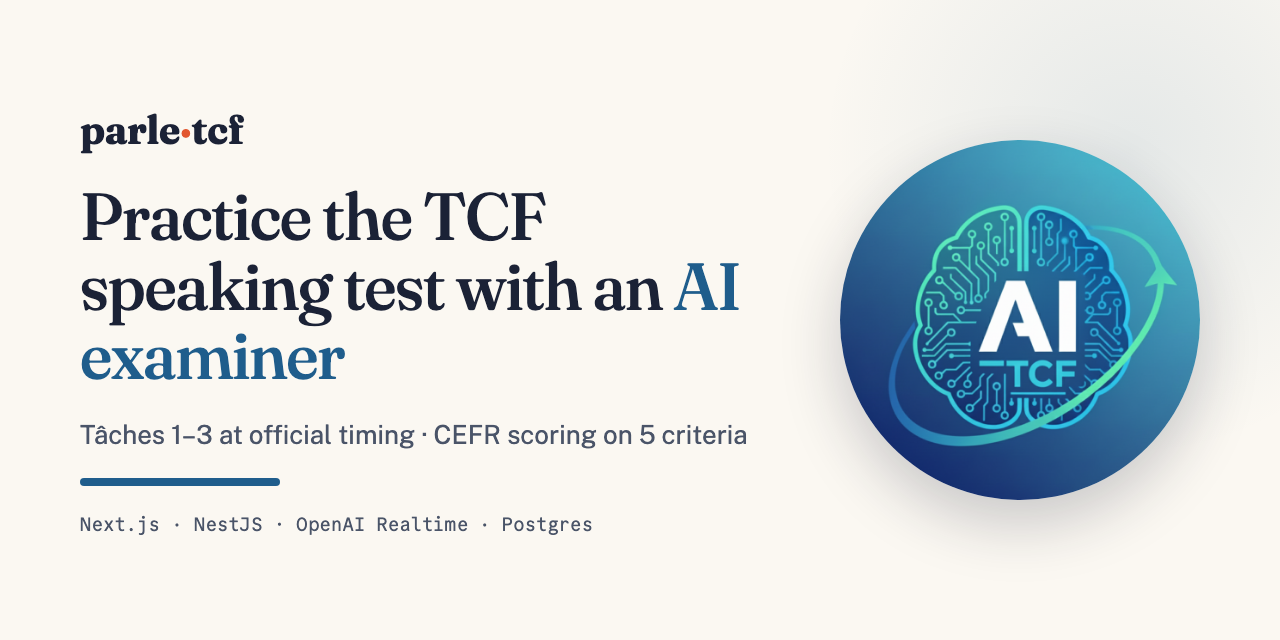
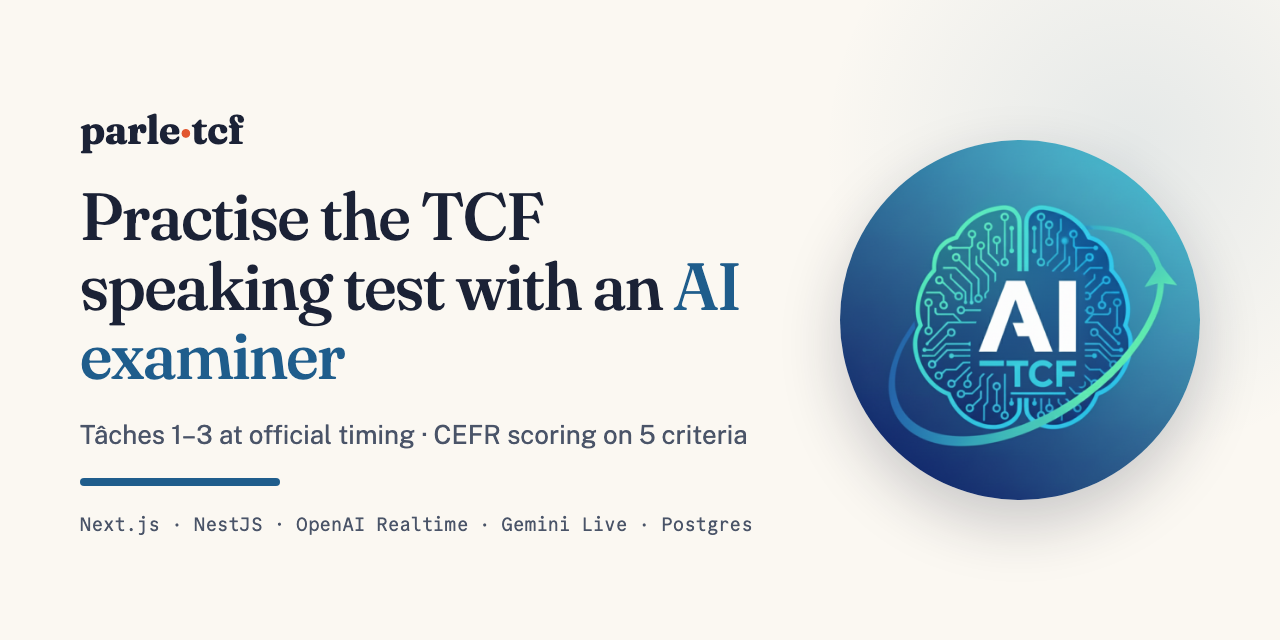
docs: refresh the readme with screenshots and the current setup
The social preview opens the readme, followed by screenshots, the three
tasks, a quick start with first steps, optional configuration, common
commands, the repository layout, current voice and corrector models and a
security section. The social preview says "Practise", like the repository
description, and lists Gemini Live. The changelog records the Next.js 16
upgrade.

Changed region(s): [[0.1875, 0.2812, 0.4375, 0.375], [0.4062, 0.8125, 0.5938, 0.8438]]

diff --git a/.github/social-preview.html b/.github/social-preview.html
@@ -2,7 +2,7 @@
 <!--
   Source of social-preview.png (GitHub repository social preview, 1280×640).
   Colours and fonts match apps/web/styles/globals.css and apps/web/app/opengraph-image.tsx.
-  Regenerate: render this page at 1280×640 (e.g. Playwright screenshot) and overwrite the PNG.
+  Regenerate with `pnpm readme:images` (renders this page at 1280×640 over the PNG).
 -->
 <html lang="en">
   <head>
@@ -113,10 +113,10 @@
   <body>
     <main>
       <div class="wordmark">parle<span>·</span>tcf</div>
-      <h1>Practice the TCF speaking test with an <em>AI examiner</em></h1>
+      <h1>Practise the TCF speaking test with an <em>AI examiner</em></h1>
       <p class="sub">Tâches 1–3 at official timing · CEFR scoring on 5 criteria</p>
       <div class="rule"></div>
-      <p class="stack">Next.js · NestJS · OpenAI Realtime · Postgres</p>
+      <p class="stack">Next.js · NestJS · OpenAI Realtime · Gemini Live · Postgres</p>
     </main>
     <div class="logo"><img src="../apps/web/public/logo.png" alt="" /></div>
   </body>

diff --git a/README.md b/README.md
@@ -18,18 +18,50 @@
 </p>
 
 <p align="center">
+  <a href="#screenshots">Screenshots</a> ·
   <a href="#features">Features</a> ·
-  <a href="#how-it-works">How it works</a> ·
   <a href="#quick-start">Quick start</a> ·
+  <a href="#how-it-works">How it works</a> ·
   <a href="docs/README.md">Documentation</a> ·
   <a href="#contributing">Contributing</a>
 </p>
 
 parle-tcf simulates the three tasks of the TCF _expression orale_ with official timing. A real-time voice model plays the examiner in the browser (OpenAI Realtime or Gemini Live, with **your own API key**). When a task ends, a separate model grades the transcript on the CEFR scale (A1–C2), explains each criterion and corrects every sentence you said.
 
+> [!IMPORTANT]
 > **Not official.** parle-tcf is an independent practice tool. It is not affiliated with, endorsed by, or connected to France Éducation international, and the level it shows is an estimate, not a TCF score.
 
 The app is in French; the code and documentation are in English.
+
+## Screenshots
+
+<table>
+  <tr>
+    <td width="50%"><img src="docs/images/landing.png" alt="Landing page: practise the TCF speaking test with an AI examiner, with a sample exchange and its correction." /></td>
+    <td width="50%"><img src="docs/images/preparation.png" alt="Tâche 2 preparation: the situation to read and a two-minute countdown." /></td>
+  </tr>
+  <tr>
+    <td align="center"><sub>Landing page</sub></td>
+    <td align="center"><sub>Tâche 2: two minutes to prepare your questions</sub></td>
+  </tr>
+  <tr>
+    <td width="50%"><img src="docs/images/result.png" alt="Result of a Tâche 2 attempt: overall level B2 and a level with a comment for each of the five criteria." /></td>
+    <td width="50%"><img src="docs/images/corrections.png" alt="Corrected transcript: each candidate sentence with its errors highlighted by type, the corrected version and an explanation." /></td>
+  </tr>
+  <tr>
+    <td align="center"><sub>CEFR level per criterion</sub></td>
+    <td align="center"><sub>Every sentence corrected, errors typed and explained</sub></td>
+  </tr>
+  <tr>
+    <td width="50%"><img src="docs/images/dashboard.png" alt="Dashboard: suggested next task, latest attempts, today's usage against the caps and the level per task." /></td>
+    <td width="50%" valign="top">
+      <br />
+      <strong>Dashboard</strong>: the next task to practise, your latest attempts, today's minutes and this month's cost against your caps, and your level per task.
+      <br /><br />
+      <sub>Screenshots come from a local build in test mode (scripted voice session, sample subjects) with an illustrative evaluation. Regenerate them with <code>pnpm readme:images</code>.</sub>
+    </td>
+  </tr>
+</table>
 
 ## The three tasks
 
@@ -46,11 +78,57 @@ Practise one task at a time or take the **full exam** in a row.
 - **Timed like the exam:** each task runs on the official clock, and the examiner closes it when time is up.
 - **A realistic examiner** that follows the format: it does not coach, finish your sentences or hint at answers, waits when you pause to find your words, and closes the task when time is up.
 - **CEFR evaluation of every task:** global level, five criteria (task fulfilment, coherence, vocabulary, grammar, fluency) with a comment each, and an overall level for the full exam.
-- **Corrected transcript:** each of your sentences with its errors highlighted by type and a corrected version next to it.
+- **Corrected transcript:** each of your sentences with its errors highlighted by type (grammar, vocabulary, syntax, register), an explanation and a corrected version next to it.
 - **Progress over time:** history, progression charts per task, side-by-side comparison of two attempts on the same subject, and a dashboard that suggests what to practise next.
 - **Monthly exam subjects:** a bank of Tâche 2 and 3 subjects, searchable by month and keyword, kept up to date by an importer (the repository ships an original sample bank).
-- **Your key, your costs:** API keys are encrypted at rest (AES-256-GCM) and never sent back to the browser. Costs are shown before and after each session, with daily and monthly caps.
+- **Your key, your costs:** API keys are encrypted at rest (AES-256-GCM) and never sent back to the browser. Costs are shown before and after each session, with daily and monthly caps (60 min a day and 10 USD a month by default).
 - **Private by default:** optional audio recording only with explicit consent; deleting an attempt or the account deletes everything.
+
+## Quick start
+
+**Requirements:** [pnpm](https://pnpm.io/installation) and Docker (or Podman). pnpm installs the pinned pnpm version and the **Node.js LTS** the project uses by itself (`devEngines.runtime`); you do not need to install Node.js separately. To also get Node.js LTS as your global `node`, run `pnpm runtime set node lts -g`.
+
+```bash
+git clone https://github.com/yortyrh/parle-tcf.git && cd parle-tcf
+pnpm install
+pnpm infra:up        # Postgres + Mailpit + S3 storage, migrations, sample exercise bank
+pnpm setup:env       # writes apps/api/.env and apps/web/.env.local
+pnpm samples:seed    # dev users; passwords: pnpm local:credentials
+pnpm dev             # web http://localhost:3000, api http://localhost:3001
+```
+
+1. Sign in as `developer@parle-tcf.local` with the password from `pnpm local:credentials`.
+2. Add an [OpenAI](https://platform.openai.com/api-keys) or [Gemini](https://aistudio.google.com/apikey) API key in **Paramètres**.
+3. Start a task from **S’entraîner**. Local emails (verification, password reset) land in Mailpit at http://localhost:8025.
+
+To run the whole stack in containers instead: `cp .env.example .env`, fill in the secrets, then `docker compose up -d --build` (see [deployment](docs/deployment.md)).
+
+### Configuration
+
+`pnpm setup:env` writes a working local configuration; nothing else is required to try the app. Optional settings:
+
+| What                    | How                                                                                                                                                     |
+| ----------------------- | ------------------------------------------------------------------------------------------------------------------------------------------------------- |
+| GitHub / Google sign-in | OAuth credentials of your own development apps in `apps/api/.env` ([accounts](docs/features/accounts.md#configuration))                                 |
+| Other local ports       | `POSTGRES_PORT`, `MAILPIT_SMTP_PORT`, `MAILPIT_UI_PORT`, `STORAGE_PORT` before `pnpm setup:env` ([development](docs/development.md))                    |
+| Real exam subjects      | `pnpm exercises:import` from the public monthly pages, or the private bank with `EXERCISE_DATA_TOKEN` ([exercise bank](docs/features/exercise-bank.md)) |
+| Default voice models    | `OPENAI_REALTIME_MODEL`, `GEMINI_LIVE_MODEL` ([voice providers](docs/features/voice-providers.md))                                                      |
+
+Every API variable is documented in [`apps/api/.env.example`](apps/api/.env.example).
+
+### Common commands
+
+| Command                 | What it does                                                                                |
+| ----------------------- | ------------------------------------------------------------------------------------------- |
+| `pnpm dev`              | Web and API in watch mode                                                                   |
+| `pnpm verify`           | Format check, lint, typecheck, unit tests with coverage thresholds, build (run before a PR) |
+| `pnpm test:integration` | API integration tests against Postgres and Mailpit in Testcontainers                        |
+| `pnpm test:e2e`         | Playwright + axe against a production build with the fake voice provider (needs `infra:up`) |
+| `pnpm mutate`           | Stryker mutation tests on the files changed against `origin/main`                           |
+| `pnpm readme:images`    | Regenerates the README screenshots and the social preview (needs `infra:up`)                |
+| `pnpm infra:down`       | Stops the local infrastructure (`pnpm infra:reset` also wipes its data)                     |
+
+The full list, including the scaffolds that generate new API features, pages and packages, is in [development](docs/development.md) and [`CLAUDE.md`](CLAUDE.md#tooling-first-generate-then-edit).
 
 ## How it works
 
@@ -69,23 +147,22 @@ sequenceDiagram
   B->>A: poll the result
 ```
 
-Audio never goes through the API, and the provider key never reaches the browser. Details: [architecture](docs/architecture.md).
+Audio never goes through the API, and the provider key never reaches the browser. The examiner runs on `gpt-realtime-2.1-mini` (OpenAI) or `gemini-3.8-live` (Gemini, experimental); the corrector is `gpt-6-luna` or `gemini-3.5-flash-lite`, matching the user's provider, with a versioned rubric checked by offline evals. Details: [architecture](docs/architecture.md), [evaluation](docs/features/evaluation.md).
 
-## Quick start
+### Repository layout
 
-Requirements: [pnpm](https://pnpm.io/installation) and Docker (or Podman). pnpm installs the pinned pnpm version and the **Node.js LTS** the project uses by itself (`devEngines.runtime`); you do not need to install Node.js separately. To also get Node.js LTS as your global `node`, run `pnpm runtime set node lts -g`.
-
-```bash
-pnpm install
-pnpm infra:up        # Postgres + Mailpit + S3 storage, migrations, sample exercise bank
-pnpm setup:env       # writes apps/api/.env and apps/web/.env.local
-pnpm samples:seed    # dev users; passwords: pnpm local:credentials
-pnpm dev             # web http://localhost:3000, api http://localhost:3001
+```text
+apps/
+  web/       Next.js app: pages, voice session in the browser (candidate-facing, in French)
+  api/       NestJS API: auth, session minting, attempts, CEFR evaluation, usage limits, mail
+  e2e/       Playwright end-to-end suite and the README screenshot capture
+packages/
+  db/              Drizzle schema, SQL migrations, sample exercise bank
+  shared/          Zod schemas, API routes and types shared by web and API
+  email-templates/ React Email templates
+  importer/        Monthly exam subject importer
+docs/        One page per feature, architecture, deployment, ADRs
 ```
-
-Sign in as `developer@parle-tcf.local`, add an OpenAI (or Gemini) API key in **Paramètres**, and start a task. Local emails land in Mailpit at http://localhost:8025.
-
-To run the whole stack in containers instead: `cp .env.example .env`, fill in the secrets, then `docker compose up -d --build` (see [deployment](docs/deployment.md)).
 
 ## Tech stack
 
@@ -106,17 +183,20 @@ All documentation lives in [`docs/`](docs/README.md), with one page per feature;
 
 - [Architecture](docs/architecture.md) · [Development](docs/development.md) · [Deployment](docs/deployment.md) · [API reference](docs/api.md) · [Examiner prompts](docs/prompts.md)
 - Features: [exam sessions](docs/features/exam-sessions.md), [voice providers](docs/features/voice-providers.md), [keys and settings](docs/features/provider-settings.md), [evaluation](docs/features/evaluation.md), [results and progress](docs/features/results-and-progress.md), [exercise bank](docs/features/exercise-bank.md), [accounts](docs/features/accounts.md), [usage limits](docs/features/usage-limits.md), [audio recording](docs/features/audio-recording.md), [website and email](docs/features/website.md)
-- [Architecture decisions](docs/adr) · [Changelog](CHANGELOG.md) · [Contributor and agent rules](CLAUDE.md)
+- [Architecture decisions](docs/adr) · [Changelog](CHANGELOG.md) · [Product requirements](docs/prd.md) · [Contributor and agent rules](CLAUDE.md)
 
 ## Contributing
 
 Issues and pull requests are welcome. Before opening a pull request:
 
-1. Read [development](docs/development.md) and [`CLAUDE.md`](CLAUDE.md): scaffolds first, tests in their own commit before the code, Conventional Commits.
+1. Read [development](docs/development.md) and [`CLAUDE.md`](CLAUDE.md): scaffolds first, tests in their own commit before the code, [Conventional Commits](https://www.conventionalcommits.org/).
 2. Run `pnpm verify` (format, lint, types, unit tests with coverage, build). For API or flow changes, also `pnpm test:integration` and `pnpm test:e2e`.
 3. Keep candidate-facing text in French and everything else in English.
+4. If the UI changes, refresh the screenshots with `pnpm readme:images`.
 
-Security issues: please report them privately, see [SECURITY.md](SECURITY.md).
+## Security
+
+Please report vulnerabilities privately, as described in [SECURITY.md](SECURITY.md). Do not open a public issue.
 
 ## License
 

diff --git a/CHANGELOG.md b/CHANGELOG.md
@@ -7,6 +7,7 @@ Earlier history of the web app lives in [`apps/web/CHANGELOG.md`](./apps/web/CHA
 ## [Unreleased]
 
 ### Added
+- `pnpm readme:images`: regenerates the README screenshots and the repository social preview (Playwright, fake voice provider, throw-away database with the sample bank).
 - Accounts (Better Auth: email/password, optional GitHub/Google) with email verification and password reset.
 - Per-user OpenAI API key, encrypted with AES-256-GCM (versioned master keys, `rotate-keys` script); settings page with connection test.
 - PostgreSQL persistence (`@parle-tcf/db`, Drizzle): exercise bank seed, exam runs, attempts and transcripts, scoped by user.
@@ -30,6 +31,8 @@ Earlier history of the web app lives in [`apps/web/CHANGELOG.md`](./apps/web/CHA
 - Sessions suit learners who pause: low semantic VAD eagerness and a French transcription hint (OpenAI), low end-of-speech sensitivity (Gemini).
 - Examiner prompts restructured after the OpenAI and Gemini prompting guides (labelled sections, French pinned, unclear-audio and tool rules, no contradictions).
 - Dependencies updated within their ranges, plus Next.js 15.5.29 and nodemailer 10, fixing the known advisories that had a patch.
+- **Breaking:** the web app moved to Next.js 16.4 (`next build` no longer lints; `pnpm lint` does).
+- README: social preview as the header, screenshots, configuration, common commands and repository layout; the social preview says “Practise” and lists Gemini Live.
 - Documentation: one page per feature in `docs/`, `llms.txt`, rewritten README; every document is in English (PRD translated to `docs/prd.md`).
 - Corrector: OpenAI users are graded by `gpt-6-luna` with reasoning effort `none` (gpt-4o-mini is removed on 2027-01-14; evals: 100 % vs 67 % exact level agreement), Gemini users by `gemini-3.5-flash-lite`; the evals runner accepts `model@effort` and writes its report in English.
 - The real exercise bank (third-party texts) moved to the private repository `yortyrh/parle-tcf-data`, loaded into an empty bank at pre-deploy, by `pnpm infra:up` and by `pnpm exercises:load`; the public repository ships an original sample bank and migration 0003 keeps only its structural part (ADR 0006).
